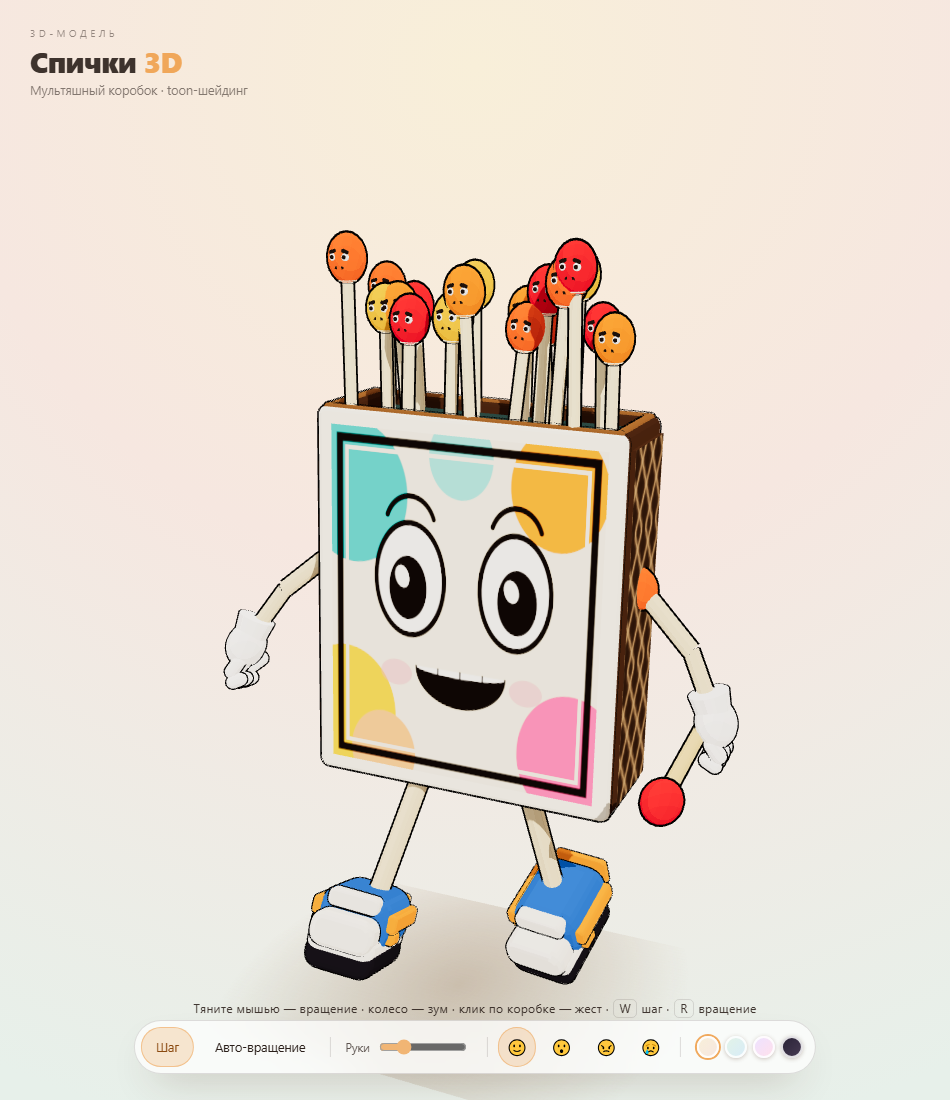
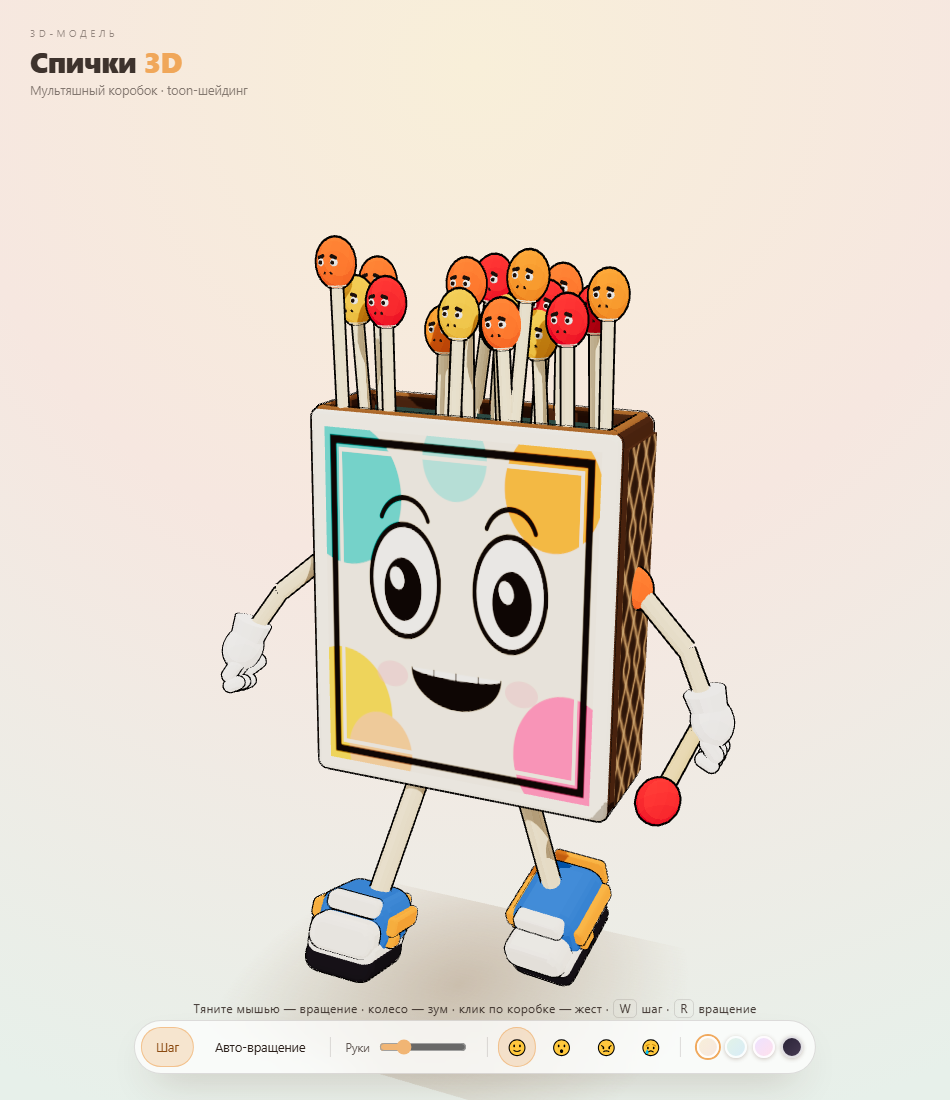
style(matchbox): remove the tear from sadness

Changed region(s): [[0.2137, 0.1855, 0.7632, 0.8964], [0.3053, 0.7727, 0.4274, 0.8964], [0.7632, 0.6182, 0.7937, 0.68]]

diff --git a/dist/matchbox.html b/dist/matchbox.html
@@ -323,17 +323,6 @@ function drawLabel(mode){
     g.beginPath(); g.ellipse(512 + s2 * 250, 720, 62, 40, 0, 0, Math.PI * 2); g.fill();
   });
 
-  // слеза для печали
-  if (mode === 'sadness'){
-    g.fillStyle = '#63b8e8';
-    g.beginPath();
-    g.moveTo(322, 520);
-    g.bezierCurveTo(322, 520, 350, 570, 350, 592);
-    g.bezierCurveTo(350, 612, 330, 620, 316, 608);
-    g.bezierCurveTo(300, 596, 322, 548, 322, 520);
-    g.fill();
-  }
-
   labelTex.needsUpdate = true;
 }
 drawLabel('joy');

diff --git a/src/matchbox/index.html b/src/matchbox/index.html
@@ -316,17 +316,6 @@ function drawLabel(mode){
     g.beginPath(); g.ellipse(512 + s2 * 250, 720, 62, 40, 0, 0, Math.PI * 2); g.fill();
   });
 
-  // слеза для печали
-  if (mode === 'sadness'){
-    g.fillStyle = '#63b8e8';
-    g.beginPath();
-    g.moveTo(322, 520);
-    g.bezierCurveTo(322, 520, 350, 570, 350, 592);
-    g.bezierCurveTo(350, 612, 330, 620, 316, 608);
-    g.bezierCurveTo(300, 596, 322, 548, 322, 520);
-    g.fill();
-  }
-
   labelTex.needsUpdate = true;
 }
 drawLabel('joy');
